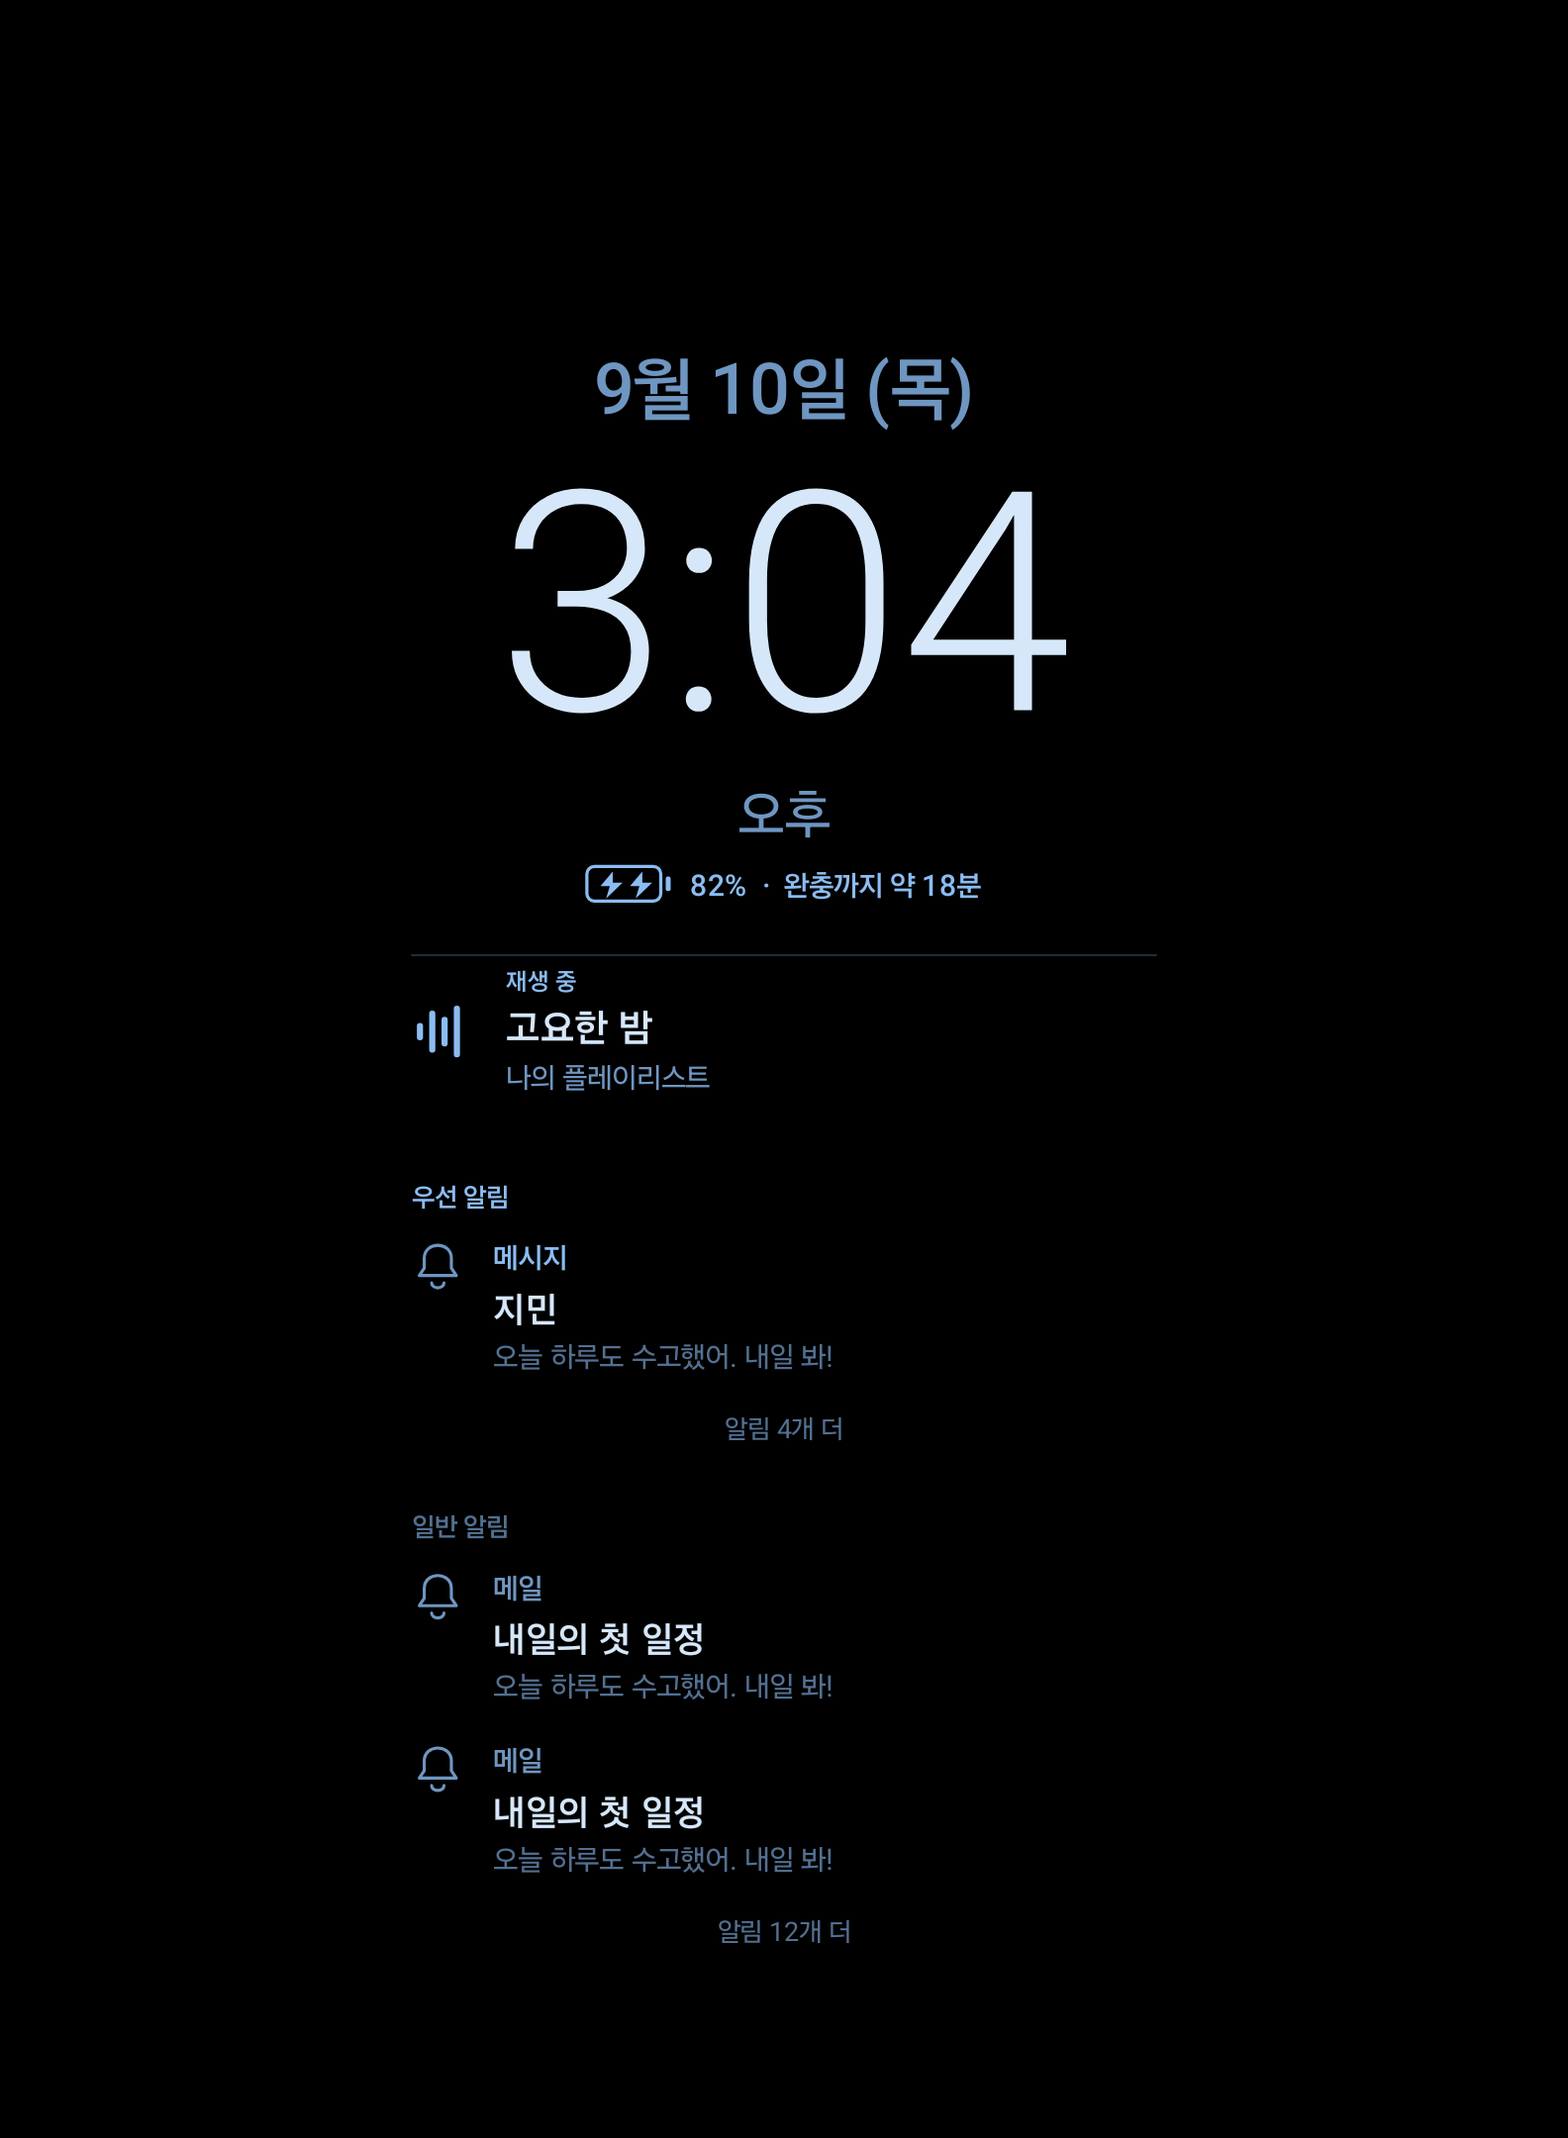
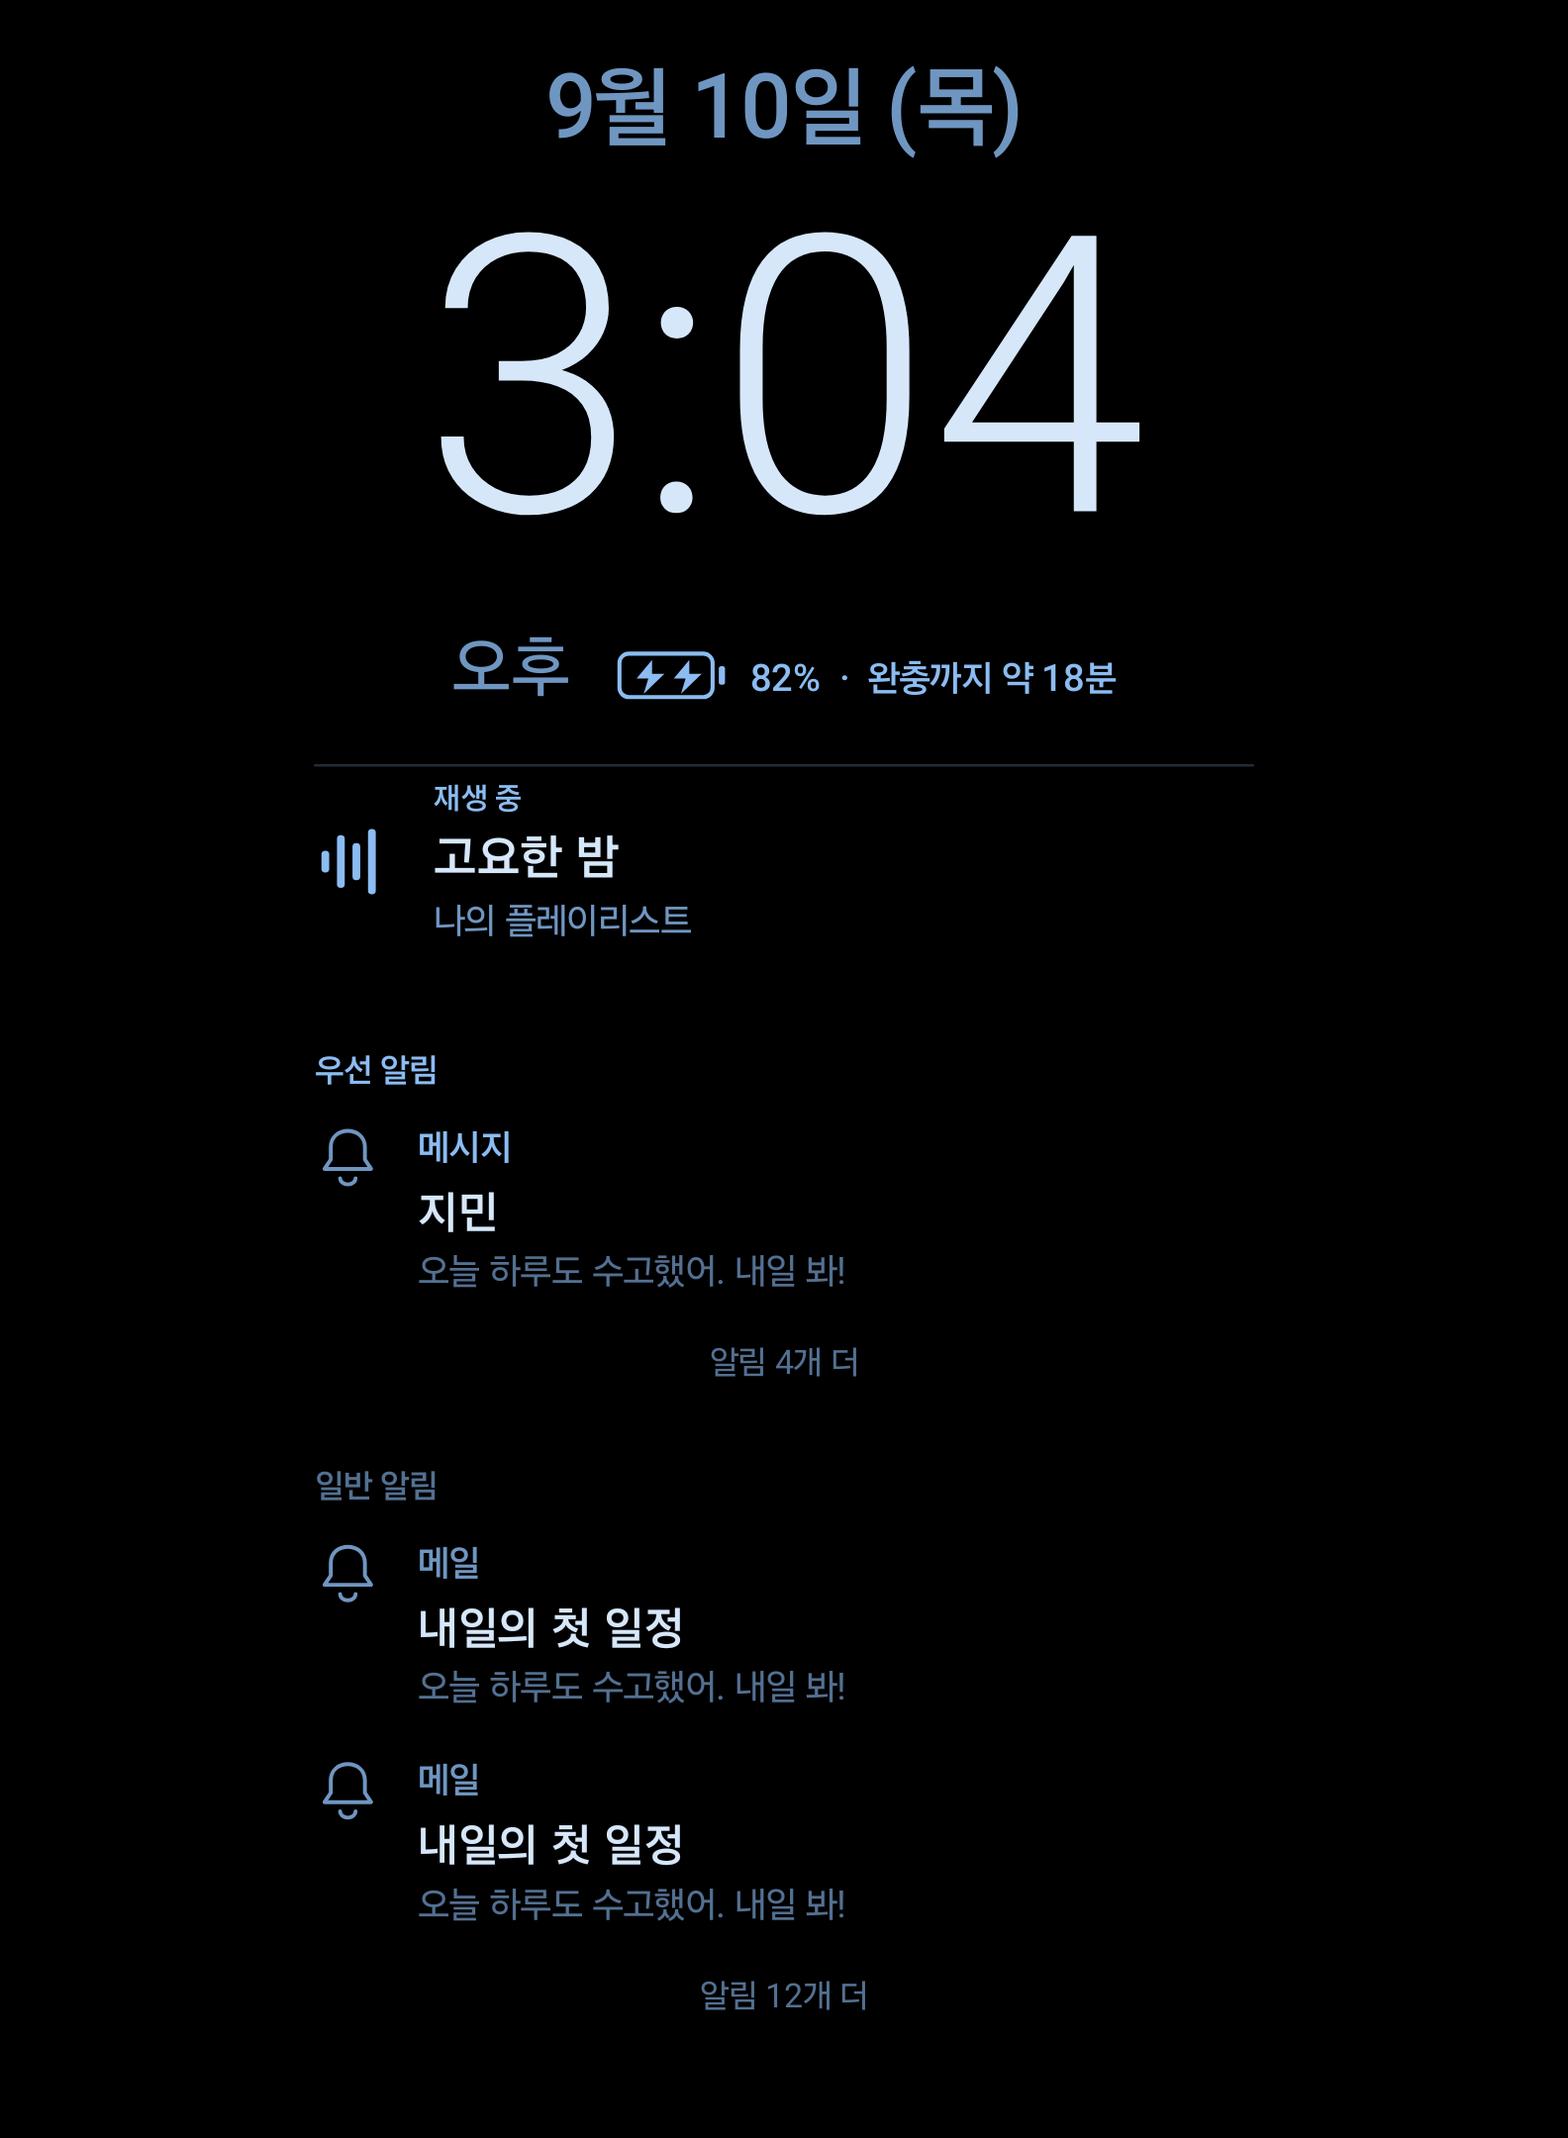
fix: preserve AOD scale and align compact status row at top

diff --git a/app/src/main/java/dev/lutergs/sgaod/presentation/aod/AodRenderer.kt b/app/src/main/java/dev/lutergs/sgaod/presentation/aod/AodRenderer.kt
@@ -30,7 +30,7 @@ class AodRenderer(private val context: Context) {
 
     fun draw(canvas: Canvas, width: Int, height: Int, density: Float, now: Long,
         content: AodContent, notificationIcons: Map<String, Icon> = emptyMap(), shift: Boolean = true,
-        settings: AodSettings = AodSettings(), elapsed: Long = SystemClock.elapsedRealtime()) {
+        settings: AodSettings = AodSettings(), elapsed: Long = SystemClock.elapsedRealtime(), safeTop: Int = 0) {
         canvas.drawColor(Color.BLACK)
         if (width <= 0 || height <= 0) return
         val options = settings.normalized()
@@ -52,23 +52,16 @@ class AodRenderer(private val context: Context) {
         val dateBaseline = dateSize
         val clockBaseline = dateBaseline + dateSize * 0.3f + 12f + clockSize * 0.8f
         val clockBottom = clockBaseline + clockSize * 0.22f
-        val periodBaseline = clockBottom + periodSize
-        val batteryBaseline = (if (is24Hour) clockBottom else periodBaseline + periodSize * 0.25f) + 20f
+        val period = if (is24Hour) "" else SimpleDateFormat("a", locale).format(date)
+        val batteryBaseline = clockBottom + maxOf(if (is24Hour) 0f else periodSize, 12f) + 8f
         val musicTop = batteryBaseline + 34f
         val listTop = batteryBaseline + 32f + if (music) 82f else 0f
         val sectionHeadings = options.priorityPackages.isNotEmpty()
-        fun sectionHeight(section: NotificationSection) =
-            (if (sectionHeadings) 24f else 0f) + section.rows.size * (if (section.detailed) 70f else 39f) +
-                (if (section.remaining > 0) 24f else 0f) + 16f
-        val designHeight = if (sections.isEmpty()) {
-            if (music) musicTop + 55f else batteryBaseline + 8f
-        } else listTop + sections.sumOf { sectionHeight(it).toDouble() }.toFloat()
         text.typeface = clock; text.textSize = clockSize; text.fontFeatureSettings = "tnum"
         val designWidth = maxOf(320f, text.measureText(time) + 20f)
-        val top = height * 0.16f
-        // Requested sizes are preserved until the complete layout reaches the available screen bounds.
-        val unit = minOf(density * 1.12f * options.layoutScale / 100f,
-            width * 0.90f / designWidth, (height - top - height * 0.06f) / designHeight)
+        // User scale is absolute: overflow is clipped by the Surface, never fitted to screen height/width.
+        val top = safeTop.coerceAtLeast(0) + density * 24f
+        val unit = density * 1.12f * options.layoutScale / 100f
         val offset = BurnInProtection.offsetAt(now)
         canvas.save()
         canvas.translate(width / 2f + (if (shift) offset.x else 0), top + (if (shift) offset.y else 0))
@@ -77,9 +70,7 @@ class AodRenderer(private val context: Context) {
         label(canvas, dateText, 160f, dateBaseline, dateSize, secondary, designWidth,
             Paint.Align.CENTER, medium)
         label(canvas, time, 160f, clockBaseline, clockSize, primary, designWidth, Paint.Align.CENTER, clock)
-        if (!is24Hour) label(canvas, SimpleDateFormat("a", locale).format(date), 160f, periodBaseline,
-            periodSize, secondary, designWidth, Paint.Align.CENTER)
-        drawBattery(canvas, content.battery, batteryBaseline, elapsed)
+        drawBattery(canvas, content.battery, batteryBaseline, elapsed, period, periodSize)
         if (music) drawMusic(canvas, content, musicTop)
         var y = listTop
         sections.forEach { section ->
@@ -116,7 +107,8 @@ class AodRenderer(private val context: Context) {
         icons.snapshot().keys.filter { key -> content.notifications.none { it.key == key } }.forEach(icons::remove)
     }
 
-    private fun drawBattery(canvas: Canvas, battery: BatteryState, baseline: Float, elapsed: Long) {
+    private fun drawBattery(canvas: Canvas, battery: BatteryState, baseline: Float, elapsed: Long,
+        period: String, periodSize: Float) {
         val minutes = ChargingPresentation.remainingMinutes(battery, elapsed)
         val status = when {
             battery.full -> context.getString(R.string.battery_full)
@@ -127,9 +119,15 @@ class AodRenderer(private val context: Context) {
         }
         val value = if (battery.percent >= 0) "${battery.percent}%" else "—"
         val caption = value + if (status.isNotEmpty()) "  ·  $status" else ""
+        text.typeface = regular; text.textSize = periodSize
+        val periodWidth = if (period.isEmpty()) 0f else text.measureText(period)
+        val gap = if (period.isEmpty()) 0f else 16f
+        val captionLimit = (320f - periodWidth - gap - 42f).coerceAtLeast(0f)
         text.typeface = medium; text.textSize = 12f
-        val captionWidth = minOf(267f, text.measureText(caption))
-        val left = (320f - (42f + captionWidth)) / 2f
+        val captionWidth = minOf(captionLimit, text.measureText(caption))
+        val start = (320f - (periodWidth + gap + 42f + captionWidth)) / 2f
+        if (period.isNotEmpty()) label(canvas, period, start, baseline, periodSize, secondary, periodWidth + 1f)
+        val left = start + periodWidth + gap
         val color = if (battery.charging || (battery.full && battery.plugged != 0)) accent else Color.WHITE
         stroke(color, 1.3f)
         canvas.drawRoundRect(left, baseline - 12f, left + 30f, baseline + 2f, 3f, 3f, ink)
@@ -151,7 +149,7 @@ class AodRenderer(private val context: Context) {
             canvas.drawRoundRect(left + 3f, baseline - 9f,
                 left + 3f + 24f * battery.percent.coerceIn(0, 100) / 100f, baseline - 1f, 1f, 1f, ink)
         }
-        label(canvas, caption, left + 42f, baseline, 12f, color, 267f, face = medium)
+        label(canvas, caption, left + 42f, baseline, 12f, color, captionLimit, face = medium)
     }
 
     private fun blend(from: Int, to: Int, ratio: Float): Int = Color.rgb(

diff --git a/app/src/main/java/dev/lutergs/sgaod/presentation/aod/AodSurface.kt b/app/src/main/java/dev/lutergs/sgaod/presentation/aod/AodSurface.kt
@@ -64,7 +64,8 @@ class AodSurface(context: Context) : SurfaceView(context), SurfaceHolder.Callbac
     }
     private fun drawContent(canvas: Canvas) {
         renderer.draw(canvas, width, height, resources.displayMetrics.density, System.currentTimeMillis(),
-            context.aodStore.content, context.aodStore.notificationIcons, settings = context.aodStore.settings)
+            context.aodStore.content, context.aodStore.notificationIcons, settings = context.aodStore.settings,
+            safeTop = rootWindowInsets?.displayCutout?.safeInsetTop ?: 0)
     }
     override fun surfaceCreated(holder: SurfaceHolder) {
         ready = true

diff --git a/docs/design.md b/docs/design.md
@@ -52,8 +52,7 @@
 Surface의 내용은 시각적으로 정적이다. 진행률, 애니메이션, 앨범 사진, 벽지, 컬러 이미지가 없다.
 암전 버퍼는 콘텐츠 갱신 제한의 기준 시각을 변경하지 않는다. 복귀는 마지막 콘텐츠 제출에서
 1초가 지났으면 즉시 그릴 수 있으며, 짧게 가렸다가 복귀해도 콘텐츠 사이의 1초 간격은 유지한다.
-1분 단위로 7×7 물리 픽셀 범위에서 위치를 이동한다. 표시는 화면 크기를 기준으로 축소하고
-넓은 내부 화면에서도 가로 콘텐츠 폭을 제한한다. Surface가 바뀌면 1Hz 힌트를 다시 설정한다.
+1분 단위로 7×7 물리 픽셀 범위에서 위치를 이동한다. 표시는 사용자 배율을 그대로 적용하며 화면 크기에 맞춰 자동 축소하지 않는다. Surface가 바뀌면 1Hz 힌트를 다시 설정한다.
 픽셀 이동은 스케일 변환 전에 적용하여 밀도와 관계없이 각 축 ±3px를 유지한다. 동일 분 안에서는
 위치가 같고 49분 동안 49개 위치를 순환한다. 암전 중에는 이동용 타이머도 중단한다.
 번인을 완전히 예방하는 보장은 아니며, 낮은 발광량과 표시 시간 제한을 함께 사용한다.
@@ -72,8 +71,7 @@ Apple의 시계 중심 잠금화면과 Samsung의 간결한 AOD 알림 표현을
 우선 영역은 0~5행(기본 3), 일반 영역은 0~10행(기본 4)이다. 0이면 해당 영역을 숨긴다.
 제외 앱은 우선 앱에서도 제외한다. 알림을 고정했다는 이유로 삭제된 알림을 복원하지 않는다.
 리스너의 공개 정책 처리 이후 우선·일반 각각 최대 50개를 메모리에 유지하여 한쪽 폭주가 다른 쪽을 밀어내지 않게 한다.
-나머지 개수는 아래에 요약한다. 긴 글은 한 줄 말줄임으로 처리하고, 높이가 부족한 화면에서는
-전체 구성을 축소하여 알림이나 음악이 화면 밖으로 밀리지 않도록 한다.
+나머지 개수는 아래에 요약한다. 긴 글은 한 줄 말줄임으로 처리하고, 화면 아래로 넘치는 콘텐츠는 잘린다.
 아이콘은 알림에 포함된 작은 로컬 리소스/비트맵만 사용하고, 원격/URI 아이콘은 읽지 않는다.
 표시용 아이콘 캐시는 최대 24개이며 숨김/종료 때 해제한다.
 
@@ -87,7 +85,9 @@ Apple의 시계 중심 잠금화면과 Samsung의 간결한 AOD 알림 표현을
 
 시계·날짜·오전/오후 크기와 전체 배율을 독립적으로 50~200%로 저장한다. 날짜·오전/오후 기본 크기도
 15→17, 10→14 디자인 단위로 확대했다. 시계 크기에 따라 열 너비와 줄 간격을 계산하며,
-전체가 화면을 넘을 때만 축소한다. 물리 픽셀 번인 이동은 여전히 확대 전에 적용한다.
+화면 높이·너비와 관계없이 설정 배율을 유지하며 넘치는 부분은 Surface 경계에서 잘린다.
+상단은 카메라 컷아웃 안전 영역 아래 24dp의 고정 여백을 둔다. 오전/오후와 배터리·충전 예상 시간을
+같은 줄에 배치하고 24시간제에서는 배터리만 가운데 표시한다. 물리 픽셀 번인 이동은 여전히 확대 전에 적용한다.
 색상은 불투명 RGB로 저장한다. 민트·화이트·아이스 블루·라벤더·로즈·샴페인 프리셋과
 6자리 16진수 직접 입력을 제공하고 설정의 버튼·슬라이더·스위치에도 선택 색상을 적용한다.
 설정을 읽고 쓸 때 크기·개수의 범위를 정규화한다. 기존 v2 저장값은 새 항목의 기본값과 함께 유지한다.

diff --git a/docs/validation.md b/docs/validation.md
@@ -74,7 +74,7 @@ Lint 오류 0개, 기존 SDK/빌드 도구 버전 관련 경고 3개다.
 | 유선/무선 연결·분리, 완충 | 번개 수·흰색 방전·완료 상태 갱신. 충전 중 제공된 예상 시간만 표시 |
 | 충전 일시정지·배터리 보호·예상 시간 미제공 | 번개·오래된 시간 제거, 상태에 맞는 대체 문구 |
 | 우선 앱 선택·제외 앱 중복·일반 개수 0 | 별도 우선 영역, 제외 앱 미노출, 우선 앱만 표시 |
-| 글자 크기·배율 50/200% 및 우선 5·일반 10개 | 화면 밖 잘림 없음, 글자 크기와 간격 재계산, 분 단위 물리 픽셀 이동 유지 |
+| 글자 크기·배율 50/200% 및 우선 5·일반 10개 | 설정 배율 유지·하단 넘침 잘림, 상단 안전 여백, 오전/오후·배터리 한 줄, 분 단위 물리 픽셀 이동 유지 |
 | 색상 프리셋·6자리 직접 입력·앱 재시작 | 선택값 저장, 미리보기·AOD 반영, 잘못된 색상 입력은 오류 안내 |
 | AOD에서 두 번 탭·볼륨 키 | 세션 종료. 사용자가 새로 화면을 끄기 전 재실행 없음 |
 | AOD에서 전원 버튼·잠금 해제 | 시스템 조작 우선, 화면을 다시 강제 점등하는 루프 없음 |

diff --git a/docs/device-validation-2026-09-10.md b/docs/device-validation-2026-09-10.md
@@ -129,6 +129,15 @@
   검사 후 변경한 7개 표시 설정은 원래 값으로 복원하고 사용자가 선택한 우선 앱과 다른 설정은 유지했다.
 - Debug/Release 빌드, JUnit 61개, Lint 오류 0개를 확인했다. 기존 SDK·빌드 도구 경고 3개 유지.
 
+## 상단 배치·배율 유지 후속 변경
+
+사용자 요청에 따라 화면 크기에 맞춘 자동 축소를 제거했다. 설정한 배율을 그대로 사용하며,
+카메라 컷아웃 안전 영역 아래 24dp에서 시작한다. 하단으로 넘치는 내용은 Surface 경계에서 잘린다.
+오전/오후와 배터리·완충 예상 시간을 같은 줄에 배치하여 세로 공간을 줄였다.
+동일 기기에 수정 빌드를 설치하고 실제 렌더러의 합성 기본/사용자 설정/최대 배율 화면에서
+상단 배치·한 줄 상태 표시·확대 유지 및 넘침 잘림을 확인했다. 큰 배율은 좌우 넘침도 잘린다.
+Debug/Release 빌드, 기존 JUnit 61개와 Lint 오류 0개를 재확인했다.
+
 ## 센서 위치 참고
 
 [삼성 SM-F968B/DS Android 16 설명서](https://downloadcenter.samsung.com/content/UM/202512/20251219110356362/SM-F968B_DS_UG_ASIA_16_Eng_Rev.1.0_251128.pdf)

diff --git a/README.md b/README.md
@@ -86,7 +86,7 @@ One UI가 서비스를 중단하면 앱에서 AOD를 다시 켜세요. 백그라
 
 ## 화면 꾸미기와 알림
 
-- 시계·날짜·오전/오후 크기와 전체 배율을 각각 50~200%로 조절합니다. 화면을 넘으면 전체를 축소합니다.
+- 시계·날짜·오전/오후 크기와 전체 배율을 각각 50~200%로 조절합니다. 설정한 배율을 유지하며 화면 아래로 넘치는 부분은 잘립니다.
 - 민트·화이트·아이스 블루·라벤더·로즈·샴페인 6개 프리셋 또는 `#RRGGBB` 색상을 선택합니다.
 - 우선 앱은 일반 알림 위 별도 영역에 표시합니다. 우선 영역 0~5개, 일반 영역 0~10개를 설정합니다.
   일반을 0개로 두면 우선 앱만 표시합니다. 제외 앱과 시스템 잠금화면 공개 정책은 그대로 적용합니다.
